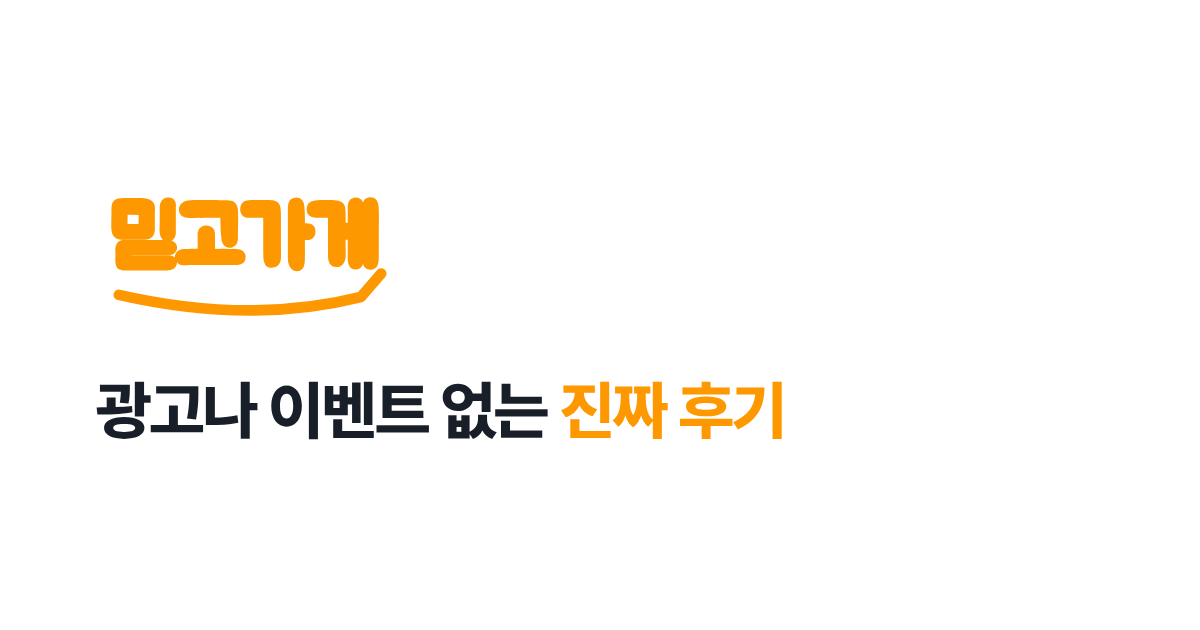
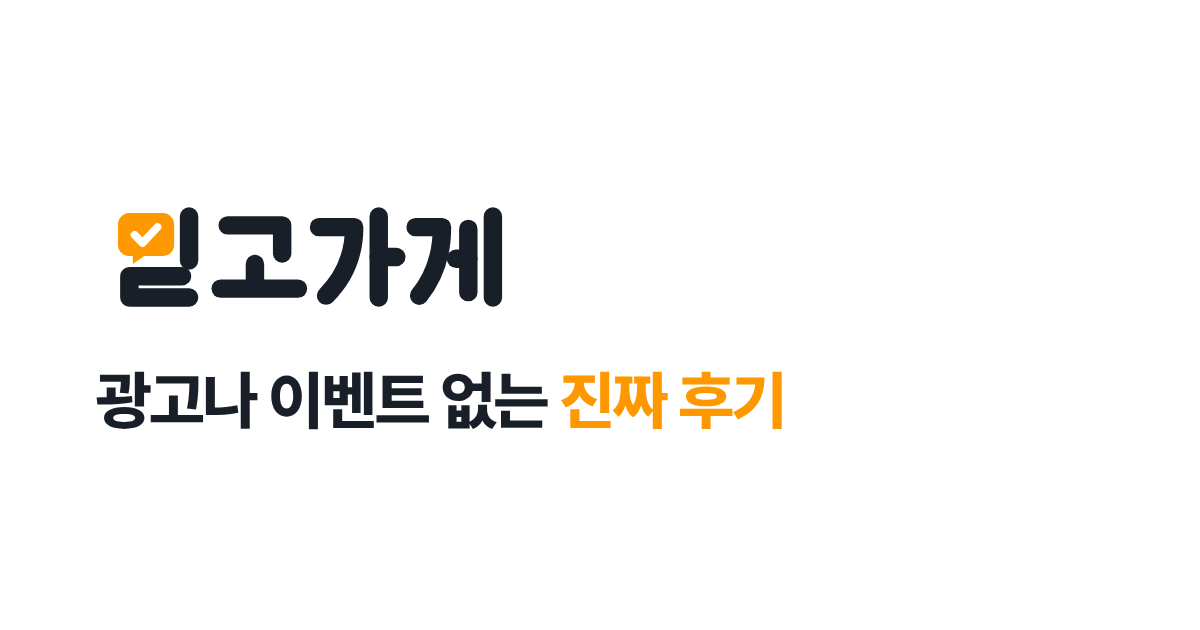
믿고가게: 로고 v3(직접 그린 워드마크·체크 말풍선) + 3D 업종 아이콘
Claude-Session: https://claude.ai/code/session_01SGfBdtXmX7h9qt8XW4iLQw

Changed region(s): [[0.0617, 0.573, 0.6475, 0.6937], [0.0925, 0.3016, 0.4317, 0.5127]]

diff --git a/mitgo/templates/mg_home.html b/mitgo/templates/mg_home.html
@@ -4,18 +4,18 @@
   <div class="toprow"><span class="city">{{ area }} ▾</span>
     <form class="search" action="{{ url_for('rank') }}" method="get"><input name="q" placeholder="가게 이름, 동네 찾기" aria-label="가게 찾기"></form></div>
   <p class="tagline">광고나 이벤트 없는 <b>진짜 후기</b></p>
-  <nav class="grid8" aria-label="분야">{% for name, em in cats %}<a href="{{ url_for('rank', cat=name) }}"><i>{{ em }}</i>{{ name }}</a>{% endfor %}</nav>
+  <nav class="grid8" aria-label="분야">{% for name, em in cats %}<a href="{{ url_for('rank', cat=name) }}"><i><img src="{{ ic(name) }}" alt=""></i>{{ name }}</a>{% endfor %}</nav>
 </section>
 {% if picks %}<section class="picks">
   <div class="wrap"><h2>믿고 갈 가게</h2><p class="lead">방문 인증 후기가 쌓이고 별점이 높은 곳만 저절로 올라와요. 돈으로 못 들어와요.</p></div>
   <div class="pscroll">{% for s in picks %}{% set t = st.get(s.id) %}<a class="pcard" href="{{ url_for('store', sid=s.id) }}">
-    <span class="pimg">{% if s.photo %}<img src="{{ url_for('img', name=s.photo) }}" alt="" loading="lazy">{% else %}{{ cat_emoji.get(s.cat, '🏪') }}{% endif %}</span>
+    <span class="pimg">{% if s.photo %}<img src="{{ url_for('img', name=s.photo) }}" alt="" loading="lazy">{% else %}<img class="ci" src="{{ ic(s.cat) }}" alt="">{% endif %}</span>
     <b>{{ s.name }}</b><small><em class="star">★ {{ t.avg }}</em> · 방문 인증 {{ t.v }}</small></a>{% endfor %}</div>
 </section>{% endif %}
 {% if top %}<section class="wrap card">
   <h2>{{ area }} 동네 가게 순위</h2>
   <ol class="rank">{% for s in top %}{% set t = st.get(s.id) %}<li><a href="{{ url_for('store', sid=s.id) }}">
-    <span class="no">{{ loop.index }}</span><span class="th">{% if s.photo %}<img src="{{ url_for('img', name=s.photo) }}" alt="" loading="lazy">{% else %}{{ cat_emoji.get(s.cat, '🏪') }}{% endif %}</span>
+    <span class="no">{{ loop.index }}</span><span class="th">{% if s.photo %}<img src="{{ url_for('img', name=s.photo) }}" alt="" loading="lazy">{% else %}<img class="ci" src="{{ ic(s.cat) }}" alt="">{% endif %}</span>
     <span class="tx"><b>{{ s.name }}</b><small>{% if t %}<em class="star">★ {{ t.avg }}</em> · 후기 {{ t.n }}{% if t.v %} · 방문 인증 {{ t.v }}{% endif %}{% else %}아직 후기가 없어요{% endif %} · {{ s.cat }}</small></span></a></li>{% endfor %}</ol>
   <a class="more" href="{{ url_for('rank') }}">순위 전체 보기 ›</a>
 </section>{% endif %}
@@ -26,7 +26,7 @@
       {% if ph %}<img class="fimg" src="{{ url_for('img', name=ph) }}" alt="" loading="lazy">
       {% else %}<span class="fq"><span class="fs">{{ '★' * r.stars }}</span>{{ r.body|truncate(70, True, '…') }}</span>{% endif %}
       <span class="fb">{% if ph and r.body %}<span class="ft">{{ r.body|truncate(44, True, '…') }}</span>{% endif %}
-        <span class="fst">{{ cat_emoji.get(r.scat, '🏪') }} {{ r.sname }}{% if r.visited %} <span class="vb">방문 인증</span>{% endif %}</span>
+        <span class="fst"><img class="cs" src="{{ ic(r.scat) }}" alt="">{{ r.sname }}{% if r.visited %} <span class="vb">방문 인증</span>{% endif %}</span>
         <span class="fu"><span>{{ r.nick or '동네 손님' }}{% if u and u.lv %} · {{ u.lv.split(' ')[0] }}{% endif %}</span><span>👍 {{ r.helpful }}</span></span></span>
     </a>{% endfor %}</div>
   {% else %}<p class="wrap empty">첫 후기를 기다리고 있어요.</p>{% endif %}

diff --git a/mitgo/templates/mg_rank.html b/mitgo/templates/mg_rank.html
@@ -2,7 +2,7 @@
 {% block title %}{{ area }} {{ cat or '동네 가게' }} 순위 · 믿고가게{% endblock %}
 {% macro row(s, i) %}{% set t = st.get(s.id) %}<li><a href="{{ url_for('store', sid=s.id) }}">
   <span class="no">{{ i }}</span>
-  <span class="th">{% if s.photo %}<img src="{{ url_for('img', name=s.photo) }}" alt="" loading="lazy">{% else %}{{ cat_emoji.get(s.cat, '🏪') }}{% endif %}</span>
+  <span class="th">{% if s.photo %}<img src="{{ url_for('img', name=s.photo) }}" alt="" loading="lazy">{% else %}<img class="ci" src="{{ ic(s.cat) }}" alt="">{% endif %}</span>
   <span class="tx"><b>{{ s.name }}{% if t and t.pick %} <span class="pk">믿고 갈 가게</span>{% endif %}</b>
     <small>{% if t %}<em class="star">★ {{ t.avg }}</em> · 후기 {{ t.n }}{% if t.v %} · 방문 인증 {{ t.v }}{% endif %}{% else %}아직 후기가 없어요{% endif %} · {{ s.cat }}{% if far and far.get(s.id) is not none %} · {{ far[s.id] }}km{% endif %}</small>
     {% if t and t.top %}<small class="kw">“{{ t.top[0][0] }}”</small>{% endif %}
@@ -16,13 +16,13 @@
   </form>
 </section>
 <nav class="cats wrap" aria-label="분야">
-  <a href="{{ url_for('rank', q=q or None) }}"{% if not cat %} class="on"{% endif %}><i>✨</i>전체</a>
-  {% for name, em in cats %}<a href="{{ url_for('rank', cat=name, q=q or None) }}"{% if cat == name %} class="on"{% endif %}><i>{{ em }}</i>{{ name }}</a>{% endfor %}
+  <a href="{{ url_for('rank', q=q or None) }}"{% if not cat %} class="on"{% endif %}><i><img src="{{ url_for('static', filename='ic/all.webp') }}" alt=""></i>전체</a>
+  {% for name, em in cats %}<a href="{{ url_for('rank', cat=name, q=q or None) }}"{% if cat == name %} class="on"{% endif %}><i><img src="{{ ic(name) }}" alt=""></i>{{ name }}</a>{% endfor %}
 </nav>
 {% if picks and not q %}<section class="picks">
   <div class="wrap"><h2>믿고 갈 가게</h2><p class="lead">방문 인증 후기가 쌓이고 별점이 높은 곳만 저절로 올라와요. 돈으로 못 들어와요.</p></div>
   <div class="pscroll">{% for s in picks %}{% set t = st.get(s.id) %}<a class="pcard" href="{{ url_for('store', sid=s.id) }}">
-    <span class="pimg">{% if s.photo %}<img src="{{ url_for('img', name=s.photo) }}" alt="" loading="lazy">{% else %}{{ cat_emoji.get(s.cat, '🏪') }}{% endif %}</span>
+    <span class="pimg">{% if s.photo %}<img src="{{ url_for('img', name=s.photo) }}" alt="" loading="lazy">{% else %}<img class="ci" src="{{ ic(s.cat) }}" alt="">{% endif %}</span>
     <b>{{ s.name }}</b><small><em class="star">★ {{ t.avg }}</em> · 방문 인증 {{ t.v }}</small></a>{% endfor %}</div>
 </section>{% endif %}
 <section class="wrap card">

diff --git a/mitgo/templates/mg_my.html b/mitgo/templates/mg_my.html
@@ -2,7 +2,7 @@
 {% block title %}내 활동 · 믿고가게{% endblock %}
 {% block head %}<meta name="robots" content="noindex">{% endblock %}
 {% macro list(rows) %}<ol class="rank plain">{% for s in rows %}{% set t = st.get(s.id) %}<li><a href="{{ url_for('store', sid=s.id) }}">
-  <span class="th">{% if s.photo %}<img src="{{ url_for('img', name=s.photo) }}" alt="">{% else %}{{ cat_emoji.get(s.cat, '🏪') }}{% endif %}</span>
+  <span class="th">{% if s.photo %}<img src="{{ url_for('img', name=s.photo) }}" alt="">{% else %}<img class="ci" src="{{ ic(s.cat) }}" alt="">{% endif %}</span>
   <span class="tx"><b>{{ s.name }}</b><small>{% if t %}<em class="star">★ {{ t.avg }}</em> · 후기 {{ t.n }} · {% endif %}{{ s.cat }}</small></span></a></li>{% endfor %}</ol>{% endmacro %}
 {% block body %}
 <section class="wrap me">

diff --git a/mitgo/static/mitgo.css b/mitgo/static/mitgo.css
@@ -126,3 +126,9 @@ body.adm .card{margin:0 0 12px;padding-left:16px;padding-right:16px}
 .toprow{display:flex;align-items:center;gap:10px}.city{font-weight:800;font-size:18px;white-space:nowrap}.toprow .search{flex:1;min-width:0}.toprow .search input{padding:12px 16px;border-radius:999px}
 .tagline{margin:14px 0 0;font-size:14px;color:var(--sub)}.tagline b{color:var(--or)}
 .hero:has(.toprow){padding-top:14px}
+/* 업종 아이콘: 3D (Fluent Emoji 3D, MIT) */
+.grid8 i img,.cats i img{width:44px;height:44px;display:block}
+.cats i{background:none}.cats a.on i{background:none;box-shadow:none}.cats a.on{color:var(--or)}
+.ci{width:62%;height:62%;object-fit:contain}.pimg .ci{width:56%;height:56%}.shero .ci{width:96px;height:96px}
+.cs{width:16px;height:16px;vertical-align:-3px;margin-right:2px}
+.logo img{height:28px}

diff --git a/mitgo/templates/mg_store.html b/mitgo/templates/mg_store.html
@@ -7,7 +7,7 @@
 {% block body %}
 {% if from_qr %}<div class="qrhint">✓ 스티커로 들어왔어요. 지금 쓰는 후기에는 방문 인증이 붙어요.</div>{% endif %}
 {% if photos %}<div class="gal">{% for p in photos %}<img src="{{ url_for('img', name=p) }}" alt="" loading="lazy">{% endfor %}</div>
-{% else %}<div class="shero"><span>{{ cat_emoji.get(s.cat, '🏪') }}</span></div>{% endif %}
+{% else %}<div class="shero"><span><img class="ci" src="{{ ic(s.cat) }}" alt=""></span></div>{% endif %}
 <section class="wrap sinfo">
   <div class="sh"><h1>{{ s.name }}</h1>
     <form method="post" action="{{ url_for('save', sid=s.id) }}"><input type="hidden" name="_csrf" value="{{ csrf() }}"><button class="heart{% if saved %} on{% endif %}" aria-label="찜">{{ '♥' if saved else '♡' }}</button></form></div>

diff --git a/mitgo/__init__.py b/mitgo/__init__.py
@@ -24,6 +24,7 @@ from flask import Flask, abort, flash, redirect, render_template, request, send_
 BASE = Path(__file__).parent
 CATS = [('미용', '💇'), ('세탁', '🧺'), ('운동', '🏋'), ('수리', '🔧'), ('학원', '📚'), ('병원·약국', '🏥'), ('반려동물', '🐶'), ('그 밖의 가게', '🏪')]
 CAT_EMOJI = dict(CATS)
+CAT_IC = {'미용': 'beauty', '세탁': 'laundry', '운동': 'fitness', '수리': 'repair', '학원': 'academy', '병원·약국': 'clinic', '반려동물': 'pet', '그 밖의 가게': 'shop'}  # static/ic/*.webp: Fluent Emoji 3D (MIT)
 GOOD = ['설명이 꼼꼼해요', '실력이 좋아요', '친절해요', '가격이 정직해요', '깨끗해요', '약속을 잘 지켜요', '기다림이 짧아요', '다시 갈래요']
 BAD = ['설명이 부족해요', '가격이 예상과 달라요', '기다림이 길어요', '불친절해요', '결과가 아쉬워요']
 STAR_WORD = {1: '별로였어요', 2: '아쉬웠어요', 3: '보통이에요', 4: '좋았어요', 5: '최고예요'}
@@ -749,7 +750,8 @@ def create_app(db_path=None):
     def nf(e):
         return render_template('mg_msg.html', title='찾을 수 없어요', text='주소가 바뀌었거나 내려간 가게예요.', link=url_for('home'), label='처음으로'), 404
 
-    mg.jinja_env.globals.update(GOOD=GOOD, BAD=BAD, STAR_WORD=STAR_WORD)
+    mg.jinja_env.globals.update(GOOD=GOOD, BAD=BAD, STAR_WORD=STAR_WORD,
+                                ic=lambda cat: url_for('static', filename=f"ic/{CAT_IC.get(cat, 'shop')}.webp"))
     return mg
 
 
